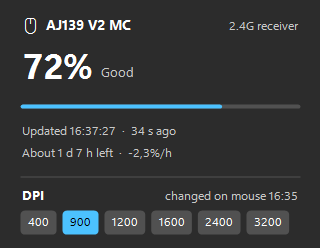
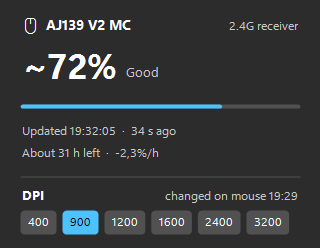
Battery display based on a day of logged data
A full day of raw reports showed coarse plateaus with short load dips
(3-20 points) and pauses of up to 16 minutes, so:
- shown level = max of the last 12 reports, only going down between charges
  (up on a +10 jump or when all 12 recent reports are higher)
- time left = least-squares fit over the discharge since the last charge,
  after 2 h of data, rounded
- percentage shown as approximate (~90%)

Replaying the logged day: 3 changes, all downward (median-of-5: 37, 18 up).

diff --git a/aj139-tray.cs b/aj139-tray.cs
@@ -5,6 +5,7 @@
 //         AJ139Tray.exe --selftest
 //         AJ139Tray.exe --preview <folder>   (PNG renders of icons and panel)
 using System;
+using System.Collections.Generic;
 using System.Drawing;
 using System.Drawing.Drawing2D;
 using System.Drawing.Text;
@@ -23,7 +24,6 @@ static class AjBattery {
   public static volatile int Level = -1;
   public static volatile string Status = "Starting";
   public static DateTime LastReport = DateTime.MinValue;
-  static int baseLevel = -1; static DateTime baseTime;
   static readonly object lk = new object();
 
   // FA status messages: [0] report id, [1] 0xAA magic, [2] 0xFA, [3] 0x00 periodic / 0xAE event, [5] sub-type
@@ -40,32 +40,46 @@ static class AjBattery {
     return -1;
   }
 
-  public static volatile int Raw = -1;                 // latest reading as sent; Level is the smoothed one
+  public static volatile int Raw = -1;                 // latest reading as sent; Level is what we show
   public static volatile bool ReceiverPresent;
-  static readonly int[] recent = new int[5];           // ~5 min of readings; the mouse's value jumps around by a few %
-  static int recentCount, recentPos;
+  // readings since the last charge. A full day of logs showed coarse plateaus (100, 90, ...) with short
+  // load dips of 3-20 points that recover on the next report, so the shown level is the highest of the last
+  // 12 reports (count, not time, so gaps in reporting don't matter) and only goes down, except for a charge:
+  // a jump of +10, or all 12 recent reports above the shown level (a top-up). Drain is fitted over the discharge.
+  static readonly List<KeyValuePair<DateTime, int>> hist = new List<KeyValuePair<DateTime, int>>();
+  const int Window = 12, ChargeJump = 10, MaxHist = 3000;   // 3000 reports ~ 2 days
 
-  public static void OnLevel(int lvl, DateTime now) {
+  public static void OnLevel(int raw, DateTime now) {
     lock (lk) {
-      if (recentCount > 0 && lvl > Level + 5) { recentCount = 0; recentPos = 0; }   // charged: drop old readings
-      recent[recentPos] = lvl; recentPos = (recentPos + 1) % recent.Length;
-      if (recentCount < recent.Length) recentCount++;
-      int[] s = new int[recentCount]; Array.Copy(recent, s, recentCount); Array.Sort(s);
-      int smooth = s[recentCount / 2];                  // median
-      if (baseLevel < 0 || smooth > baseLevel + 5) { baseLevel = smooth; baseTime = now; }  // first reading or recharged
-      Raw = lvl; Level = smooth; LastReport = now; Status = "OK";
+      if (Level >= 0 && raw >= Level + ChargeJump) hist.Clear();   // charged: new discharge starts here
+      hist.Add(new KeyValuePair<DateTime, int>(now, raw));
+      if (hist.Count > MaxHist) hist.RemoveAt(0);
+      int peak = -1, low = 101, k = Math.Min(Window, hist.Count);
+      for (int i = hist.Count - k; i < hist.Count; i++) { peak = Math.Max(peak, hist[i].Value); low = Math.Min(low, hist[i].Value); }
+      if (Level < 0 || hist.Count == 1) Level = raw;
+      else if (k == Window && low > Level) {   // every recent report is higher: topped up
+        Level = low; hist.RemoveRange(0, hist.Count - Window);
+      }
+      else if (peak < Level) Level = peak;     // only goes down between charges
+      Raw = raw; LastReport = now; Status = "OK";
     }
-    Log("battery raw " + lvl + " shown " + Level);
+    Log("battery raw " + raw + " shown " + Level);
   }
 
-  public static void ResetForTest() { lock (lk) { recentCount = 0; recentPos = 0; baseLevel = -1; Level = -1; } }
+  public static void ResetForTest() { lock (lk) { hist.Clear(); Level = -1; } }
 
-  // %/hour since the baseline; -1 until there is enough data (the mouse's reading jitters by +/-1%)
+  // %/hour from a least-squares line over the readings since the last charge; -1 until 2 h of data
+  // (the plateaus make anything shorter meaningless)
   public static double DrainPerHour() {
     lock (lk) {
-      double h = (LastReport - baseTime).TotalHours;
-      if (baseLevel < 0 || h < 0.5 || baseLevel - Level < 2) return -1;
-      return (baseLevel - Level) / h;
+      int n = hist.Count;
+      if (n < 10 || (hist[n - 1].Key - hist[0].Key).TotalHours < 2) return -1;
+      DateTime t0 = hist[0].Key; double sx = 0, sy = 0, sxx = 0, sxy = 0;
+      foreach (KeyValuePair<DateTime, int> p in hist) {
+        double x = (p.Key - t0).TotalHours; sx += x; sy += p.Value; sxx += x * x; sxy += x * p.Value;
+      }
+      double slope = (n * sxy - sx * sy) / (n * sxx - sx * sx);
+      return slope < 0 ? -slope : -1;
     }
   }
 
@@ -317,9 +331,10 @@ sealed class Painter : IDisposable {
     return Math.Round(sec / 3600.0, 1) + " h ago";
   }
 
+  // coarse on purpose: the mouse only reports in steps
   static string Hours(double h) {
-    if (h >= 24) return Math.Floor(h / 24) + " d " + Math.Floor(h % 24) + " h";
-    return Math.Floor(h) + " h " + Math.Floor((h % 1) * 60).ToString("00") + " min";
+    if (h >= 36) return Math.Round(h / 24) + " days";
+    return Math.Round(h) + " h";
   }
 
   const string Dot = "  ·  ";
@@ -339,7 +354,7 @@ sealed class Painter : IDisposable {
       g.DrawString(conn, fSmall, sub, new RectangleF(0, Px(17), W - pad, Px(20)), far);
 
       // big percentage + verdict
-      string pct = st.Level >= 0 ? st.Level + "%" : "--%";
+      string pct = st.Level >= 0 ? "~" + st.Level + "%" : "--%";   // approximate: reported in coarse steps
       g.DrawString(pct, fBig, fg, pad - Px(3), Px(42));
       float pw = g.MeasureString(pct, fBig).Width;
       string verdict = st.Level < 0 ? "" : st.Stale ? "Last known" : st.Level <= 20 ? "Low - charge soon" : st.Level <= 50 ? "OK" : "Good";
@@ -358,7 +373,7 @@ sealed class Painter : IDisposable {
       string l1 = st.Level >= 0 ? "Updated " + st.Last.ToString("HH:mm:ss") + Dot + Ago(st.Last) : "The mouse reports about once a minute";
       string l2 = st.Stale ? "No battery update for " + (int)(DateTime.Now - st.Last).TotalMinutes + " min - mouse asleep or off?"
                 : st.Drain > 0 ? "About " + Hours(st.Level / st.Drain) + " left" + Dot + "-" + st.Drain.ToString("0.0") + "%/h"
-                : st.Level >= 0 ? "Time left: estimating (after ~30 min of use)" : "";
+                : st.Level >= 0 ? "Time left: estimating (needs 2 h since the last charge)" : "";
       g.DrawString(l1, fSmall, sub, pad, Px(122));
       g.DrawString(l2, fSmall, sub, pad, Px(144));
 
@@ -566,18 +581,27 @@ static class Program {
     byte[] press = B(0, 0xAA, 0xFA, 0xAE, 0x26, 0x0A, 1, 1, 1, 0x10, 5, 4);
     ok &= AjBattery.Parse(press, 12) == -1 && AjBattery.ParseDpiEvent(press, 12) == 4;
     ok &= AjBattery.ParseDpiEvent(B(0, 0xAA, 0xFA, 0, 0x59, 0x38, 0, 0, 0, 0xD0, 0x51), 11) == -1;
-    // smoothing: the real 89 / 86 / 89 jitter shows as 89
+    // shown level, modelled on the real log: plateau at 100 with a dip to 80, then 90, then a jitter up to 92
     DateTime t0 = new DateTime(2026, 1, 1, 12, 0, 0);
     AjBattery.ResetForTest();
-    AjBattery.OnLevel(89, t0); AjBattery.OnLevel(86, t0); AjBattery.OnLevel(89, t0);
-    ok &= AjBattery.Level == 89 && AjBattery.Raw == 89;
-    // drain estimate on the smoothed value
+    AjBattery.OnLevel(100, t0);
+    AjBattery.OnLevel(80, t0.AddMinutes(1)); ok &= AjBattery.Level == 100 && AjBattery.Raw == 80;   // load dip ignored
+    for (int m = 2; m <= 20; m++) AjBattery.OnLevel(90, t0.AddMinutes(m));
+    ok &= AjBattery.Level == 90;                                                        // real drop shows once the 100s age out
+    AjBattery.OnLevel(92, t0.AddMinutes(21)); ok &= AjBattery.Level == 90;              // jitter never creeps back up
+    AjBattery.OnLevel(80, t0.AddMinutes(40)); AjBattery.OnLevel(90, t0.AddMinutes(41)); // dip right after a 19-min gap
+    ok &= AjBattery.Level == 90;                                                        // (the 15:46 case from the real log)
+    for (int m = 42; m < 54; m++) AjBattery.OnLevel(96, t0.AddMinutes(m));
+    ok &= AjBattery.Level == 96;                                                        // small top-up shows once sustained
+    // drain: a steady 2 %/h over 3 h, only after 2 h of history
     AjBattery.ResetForTest();
-    AjBattery.OnLevel(90, t0); ok &= AjBattery.DrainPerHour() == -1;                    // no history yet
-    for (int i = 0; i < 3; i++) AjBattery.OnLevel(86, t0.AddHours(2));
-    ok &= AjBattery.Level == 86 && AjBattery.DrainPerHour() == 2;                       // 4% in 2 h
-    AjBattery.OnLevel(100, t0.AddHours(3));
-    ok &= AjBattery.Level == 100 && AjBattery.DrainPerHour() == -1;                     // recharged: shows at once, estimate resets
+    for (int m = 0; m <= 180; m += 10) {
+      AjBattery.OnLevel(90 - m / 30, t0.AddMinutes(m));
+      if (m == 60) ok &= AjBattery.DrainPerHour() == -1;                                // < 2 h: no estimate
+    }
+    double d = AjBattery.DrainPerHour(); ok &= d > 1.7 && d < 2.3;
+    AjBattery.OnLevel(100, t0.AddMinutes(200));                                         // charged (+10): reset
+    ok &= AjBattery.Level == 100 && AjBattery.DrainPerHour() == -1;
     // real DPI reply captured from the AJAZZ app: 6 stages, stage 2 (1-based) active = index 1
     byte[] pkt = Array.ConvertAll("00 AA 0E A5 A1 2F 00 00 00 00 00 04 06 02 90 01 84 03 B0 04 40 06 60 09 80 0C 00 00 00 00".Split(' '), x => Convert.ToByte(x, 16));
     int[] st; int act;

diff --git a/README.md b/README.md
@@ -32,7 +32,21 @@ I worked out the meaning of each byte by watching how the values changed:
 - DPI button: the stage number cycles 5 → 6 → 1 → 2 as you press it.
 - DPI settings: the uint16 values read as 400 / 900 / 1200 / 1600 / 2400 / 3200, which match the vendor app.
 
-The mouse's battery reading jitters by about ±3%, so the app shows the median of the last 5 readings. Byte 4 of the DPI reply changes between replies (seen `A1` and `90`), so it isn't treated as part of the header.
+### Battery: what a day of logging showed
+
+I logged every raw status message for a full working day (290 reports, 100% → 90% over about 5 hours):
+- The mouse reports battery in **coarse steps**: it sat at 100%, slid to 90%, then stayed at 90% for almost 4 hours.
+- It has **short load dips** of 3–20 points (often straight to 80) that recover on the next report. The value went *up* 57 times during a discharge.
+- Average drain was about **1.9% per hour**, roughly **50 hours** per charge, but over less than a couple of hours the plateaus make any rate meaningless.
+- Reports can pause for up to ~16 minutes.
+
+So the app:
+- shows the **highest of the last 12 reports** (by count, so pauses don't matter), which removes the load dips;
+- **only lets it go down** between charges. It goes up straight away on a jump of +10, or when all 12 recent reports are above it (a top-up);
+- estimates time left from a **straight-line fit over all reports since the last charge**, shown only after 2 hours of data and rounded to hours or days;
+- shows the percentage as **approximate** (`~90%`).
+
+Replaying the logged day through this rule gives 100 → 97 → 93 → 90 (3 changes). The previous median-of-5 changed 37 times, 18 of them upward. Byte 4 of the DPI reply changes between replies (seen `A1` and `90`), so it isn't treated as part of the header.
 
 The app keeps a small log (`log.txt`, next to the exe) of battery readings, the raw status bytes, DPI changes and read errors. It stores the last DPI stages in `dpi.txt` in the same folder, so keep the exe somewhere you can write to.
 
